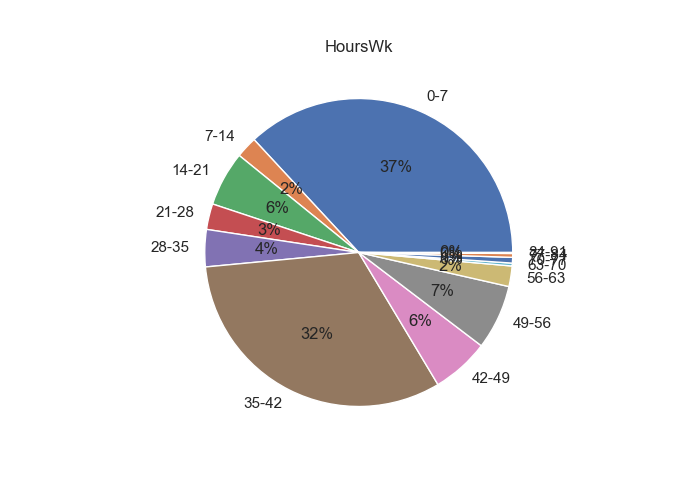
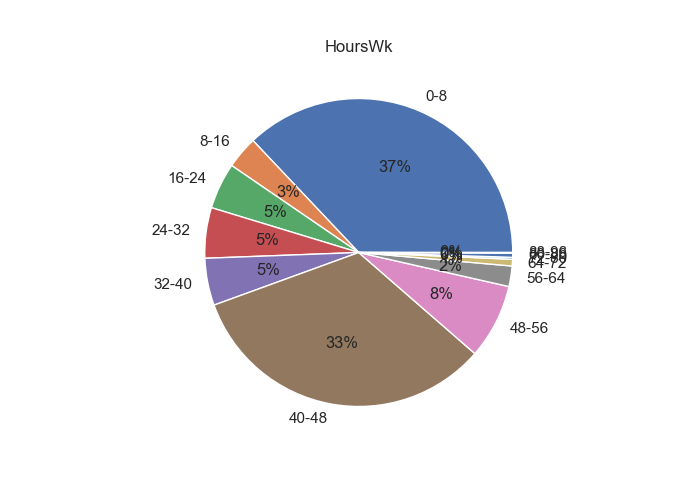
Con un cambio de cielo

diff --git a/app.py b/app.py
@@ -95,7 +95,7 @@ def creacion(r : list):
     if amplitud > int(amplitud): 
         # amplitud += 1
         # amplitud = int(amplitud)
-        amplitud = round(amplitud)
+        amplitud = math.ceil(amplitud)
     # print(f'amplitud: {amplitud}')
     lista = {}
     for esto in r: 
